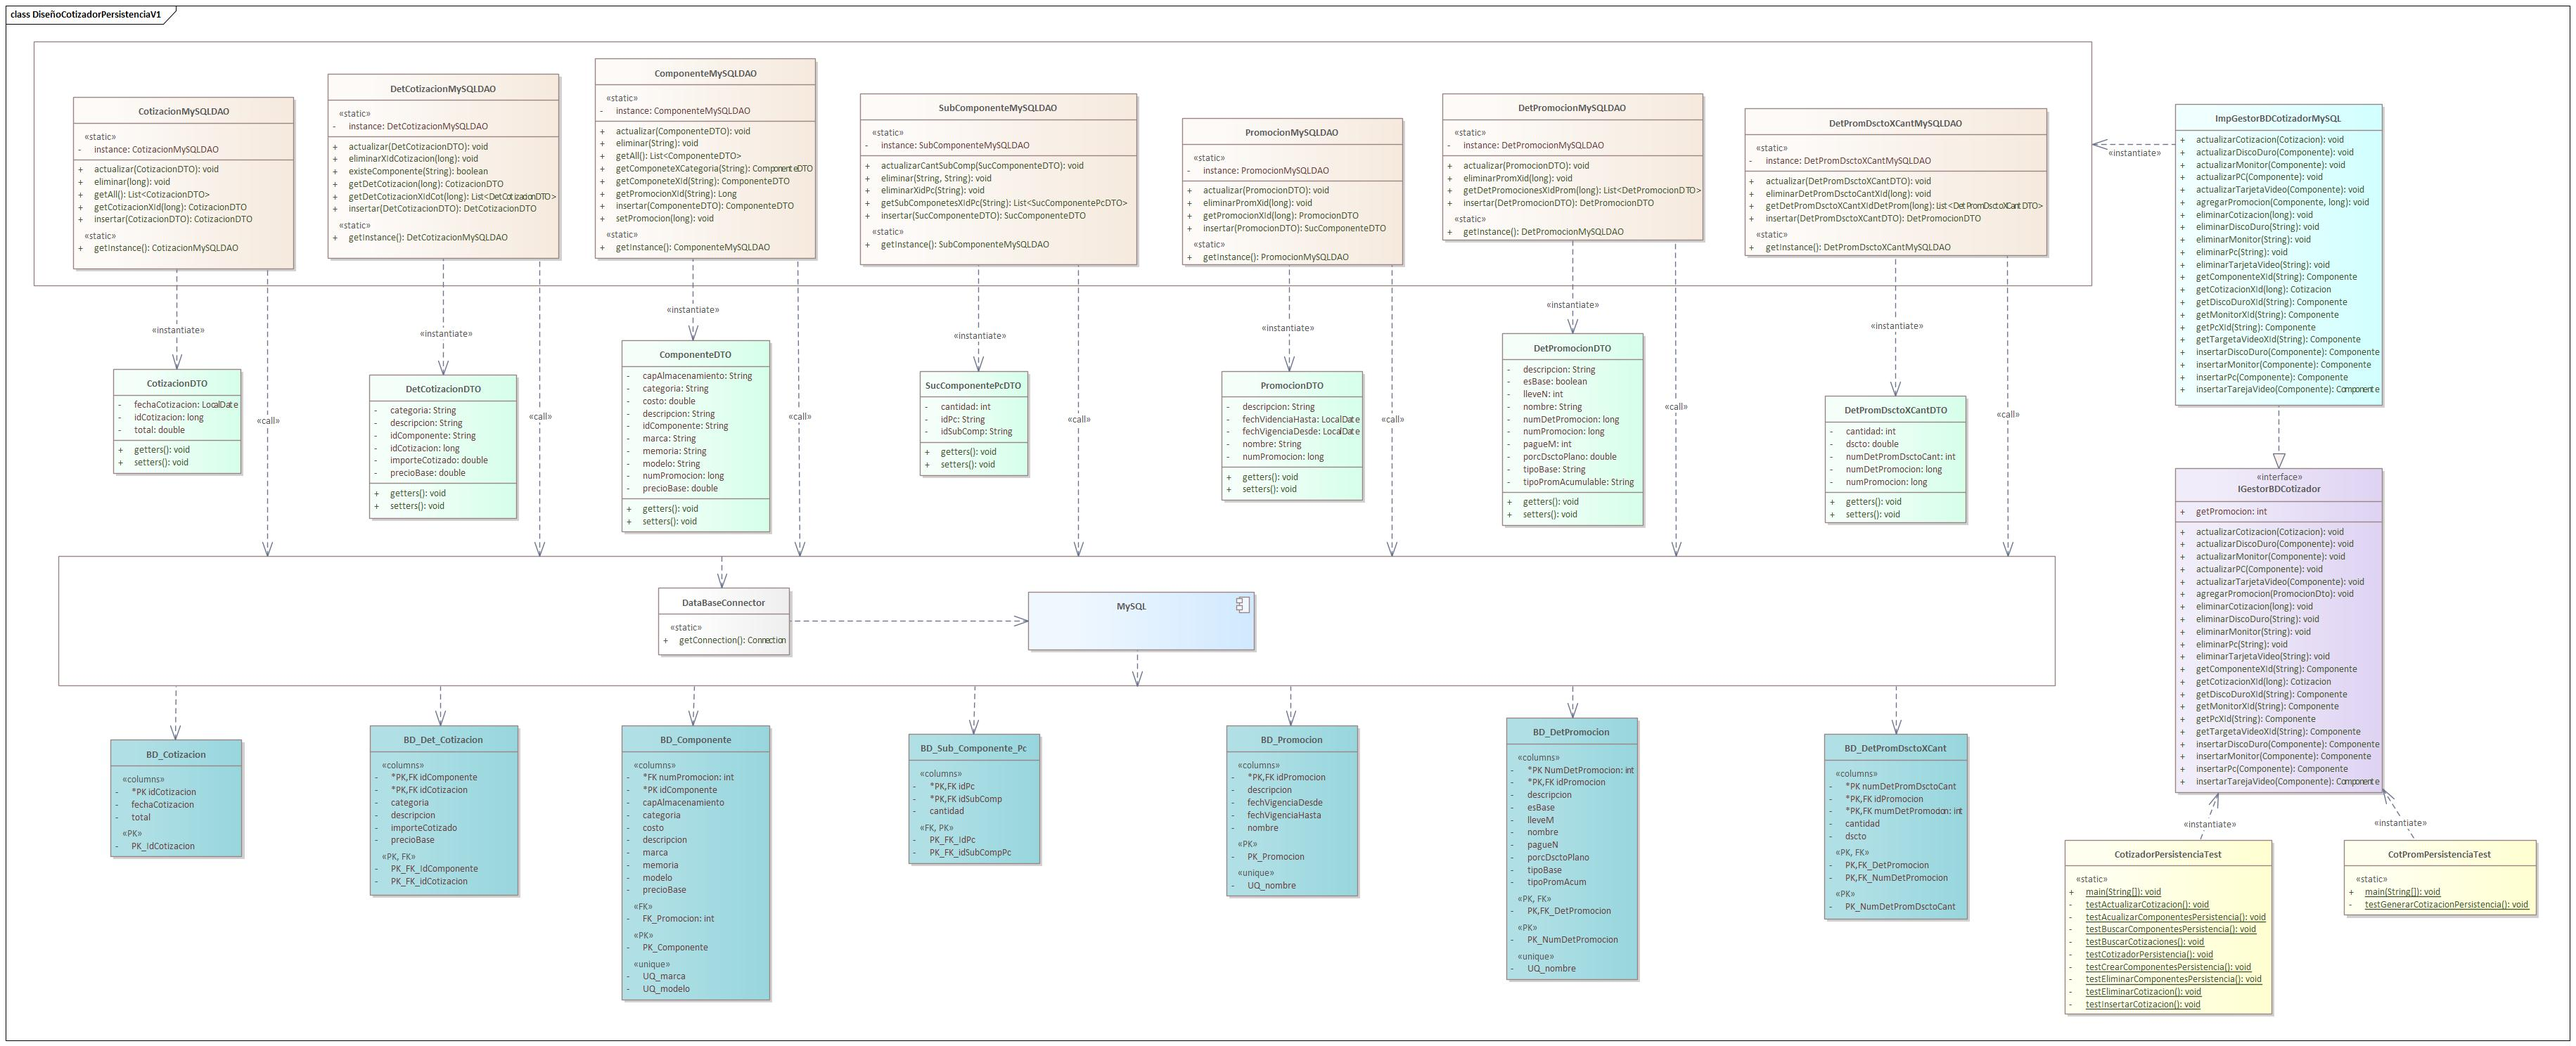
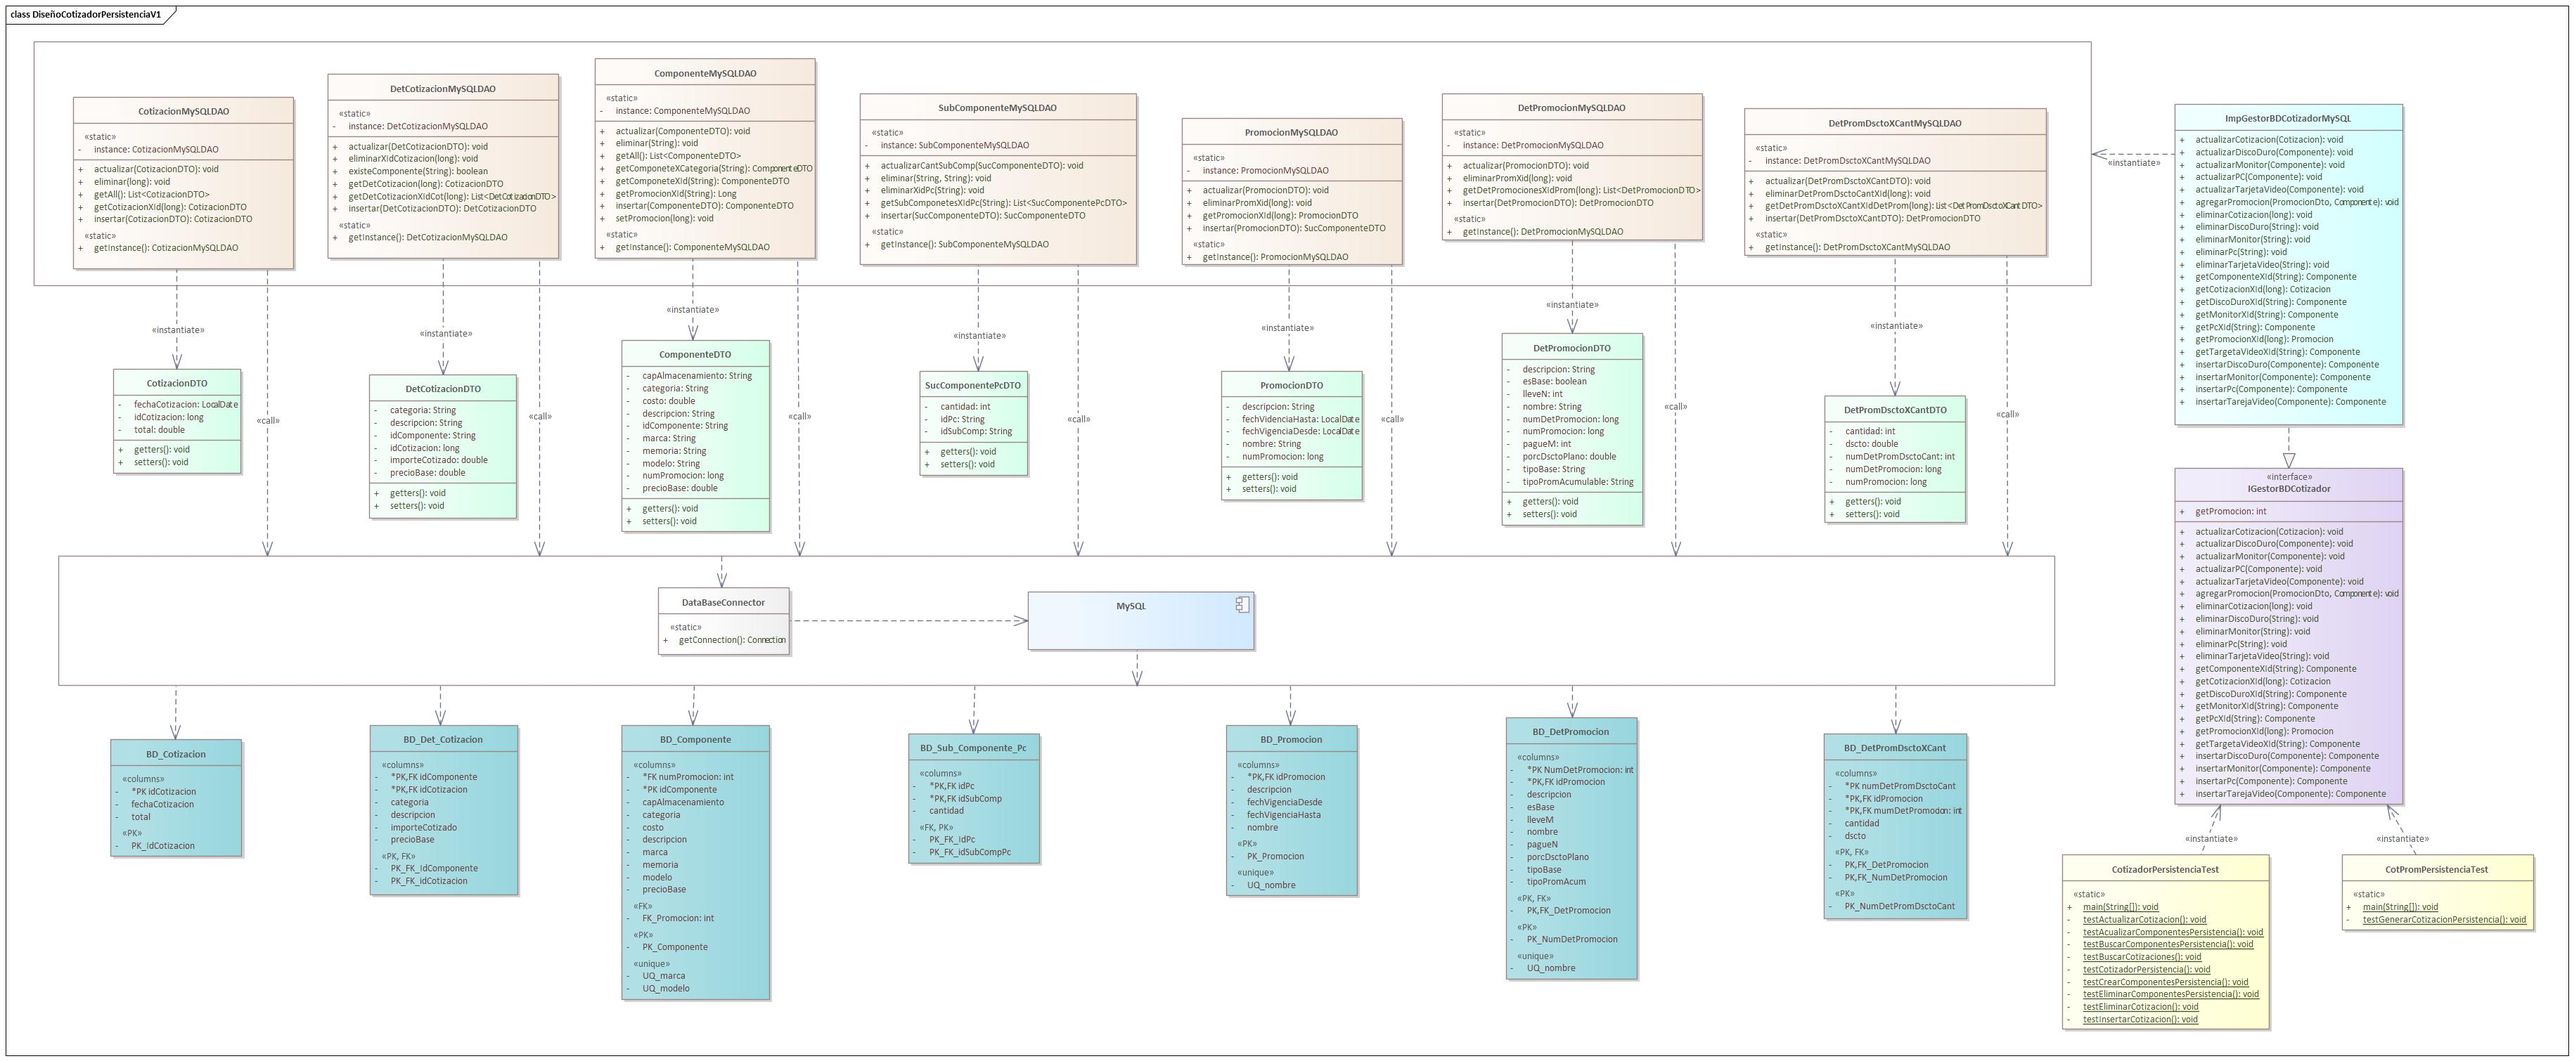
Se agregan los metodos para promociones en interfaz y actualiza diagrama persistenca

diff --git a/src/main/java/mx/com/qtx/cotizadorv1ds/servicios/ImpGestorBDCotizadorMySQLDAO.java b/src/main/java/mx/com/qtx/cotizadorv1ds/servicios/ImpGestorBDCotizadorMySQLDAO.java
@@ -14,6 +14,7 @@ import mx.com.qtx.cotizadorv1ds.core.componentes.Pc;
 import mx.com.qtx.cotizadorv1ds.core.componentes.TarjetaVideo;
 import mx.com.qtx.cotizadorv1ds.core.cotizaciones.Cotizacion;
 import mx.com.qtx.cotizadorv1ds.core.cotizaciones.DetalleCotizacion;
+import mx.com.qtx.cotizadorv1ds.core.promos.Promocion;
 import mx.com.qtx.cotizadorv1ds.persistencia.ComponenteDAO;
 import mx.com.qtx.cotizadorv1ds.persistencia.ComponenteMySqlDAO;
 import mx.com.qtx.cotizadorv1ds.persistencia.CotizacionDAO;
@@ -121,6 +122,12 @@ public class ImpGestorBDCotizadorMySQLDAO implements IGestorBDCotizador {
         									   subComp); 
             return pc;
         }
+		return null;
+	}
+	
+	@Override
+	public Promocion obtenerPromocionXId(Long numProm) throws SQLException {
+		// TODO Auto-generated method stub
 		return null;
 	}
 
@@ -236,6 +243,12 @@ public class ImpGestorBDCotizadorMySQLDAO implements IGestorBDCotizador {
                 conn.setAutoCommit(true);
             }
         }
+	}
+	
+	@Override
+	public Componente agregarPromocion(Promocion prom, Componente comp) throws SQLException {
+		// TODO Auto-generated method stub
+		return null;
 	}
 
 	@Override
@@ -563,4 +576,5 @@ public class ImpGestorBDCotizadorMySQLDAO implements IGestorBDCotizador {
         }
         return detalles;
 	}
+	
 }

diff --git a/src/main/java/mx/com/qtx/cotizadorv1ds/servicios/IGestorBDCotizador.java b/src/main/java/mx/com/qtx/cotizadorv1ds/servicios/IGestorBDCotizador.java
@@ -6,6 +6,7 @@ import java.util.List;
 import mx.com.qtx.cotizadorv1ds.core.componentes.Componente;
 import mx.com.qtx.cotizadorv1ds.core.cotizaciones.Cotizacion;
 import mx.com.qtx.cotizadorv1ds.core.cotizaciones.DetalleCotizacion;
+import mx.com.qtx.cotizadorv1ds.core.promos.Promocion;
 
 public interface IGestorBDCotizador {
 
@@ -14,12 +15,14 @@ public interface IGestorBDCotizador {
     Componente obtenerMonitor(String idMonitor) throws SQLException;
     Componente obtenerTarjetaVideo(String idTarjetaVideo) throws SQLException;
     Componente obtenerPC(String idPc) throws SQLException;
+    Promocion obtenerPromocionXId(Long numProm) throws SQLException;
     List<Componente> obtenerTodosComponentes() throws SQLException;
 
     Componente insertarDiscoDuro(Componente compDiscoDuro) throws SQLException;
     Componente insertarMonitor(Componente compMonitor) throws SQLException;
     Componente insertarTarjetaVideo(Componente compTarjetaVideo) throws SQLException;
     Componente insertarPC(Componente compPc) throws SQLException;
+    Componente agregarPromocion(Promocion prom, Componente comp) throws SQLException;
 
     void actualizarDiscoDuro(Componente compDiscoDuro) throws SQLException;
     void actualizarMonitor(Componente compMonitor) throws SQLException;

diff --git a/src/main/java/mx/com/qtx/cotizadorv1ds/persistencia/test/DAOTest.java b/src/main/java/mx/com/qtx/cotizadorv1ds/persistencia/test/DAOTest.java
@@ -32,10 +32,10 @@ public class DAOTest {
     
 	
 	public static void main(String[] args) {
-//		testComponenteDAO();
-//    	testSubComponenteDAO();
-//		testCotizacionDAO();
-//    	testDetalleCotizacionDAO();
+		testComponenteDAO();
+    	testSubComponenteDAO();
+		testCotizacionDAO();
+    	testDetalleCotizacionDAO();
     	testPromocionesDAO();
 	}
 
